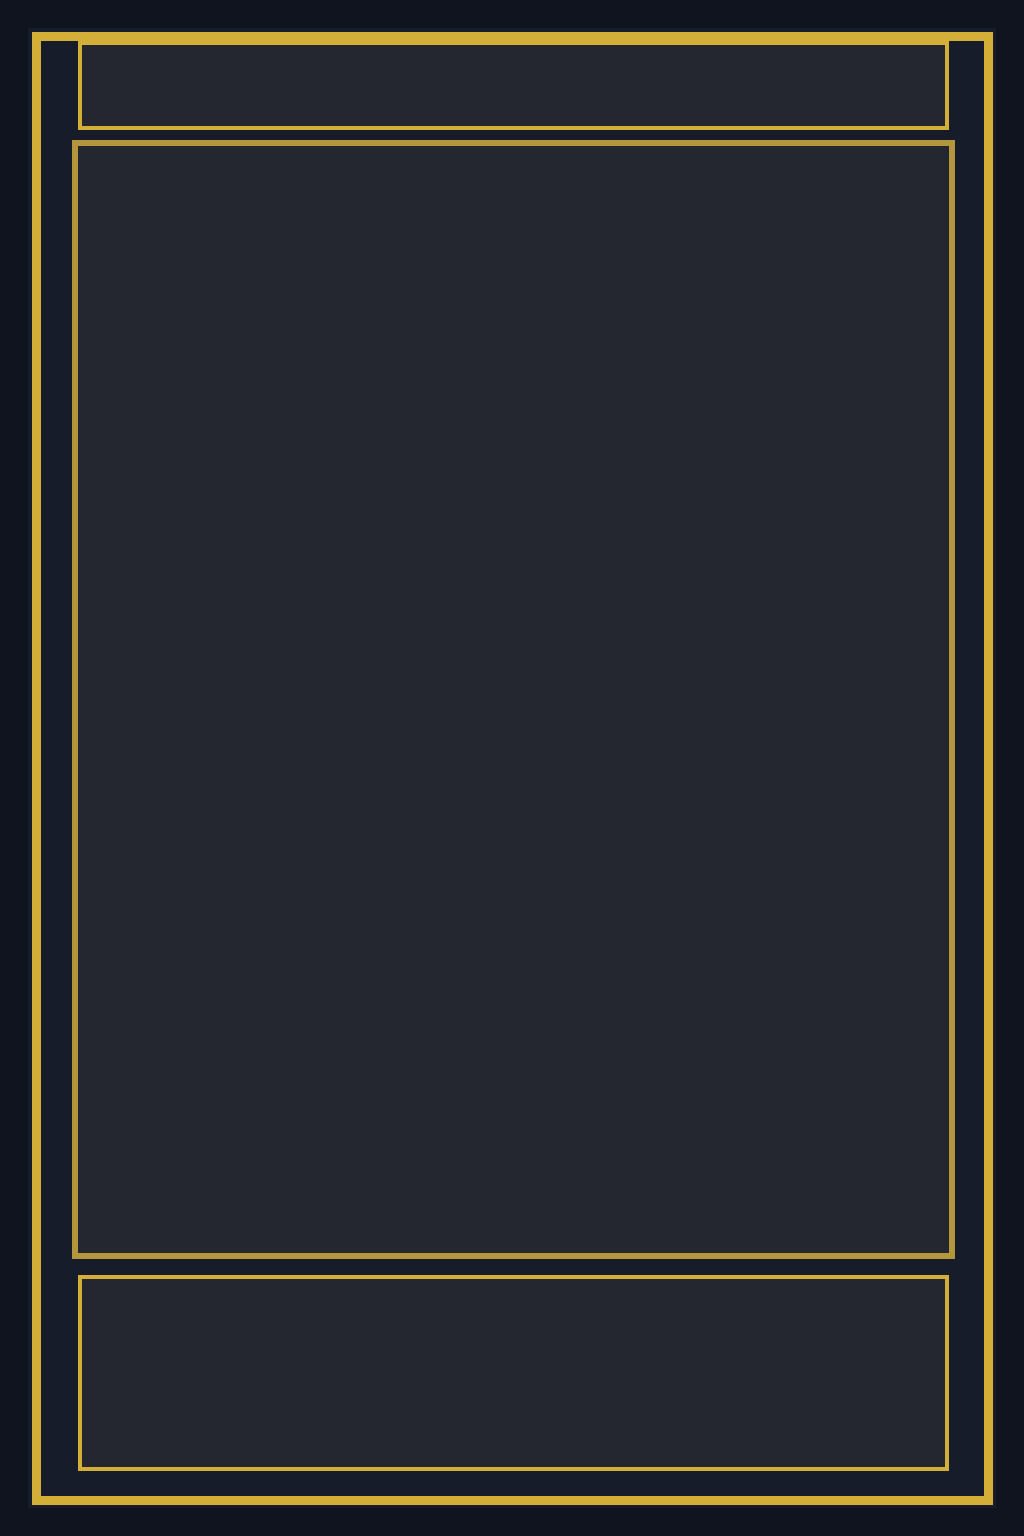
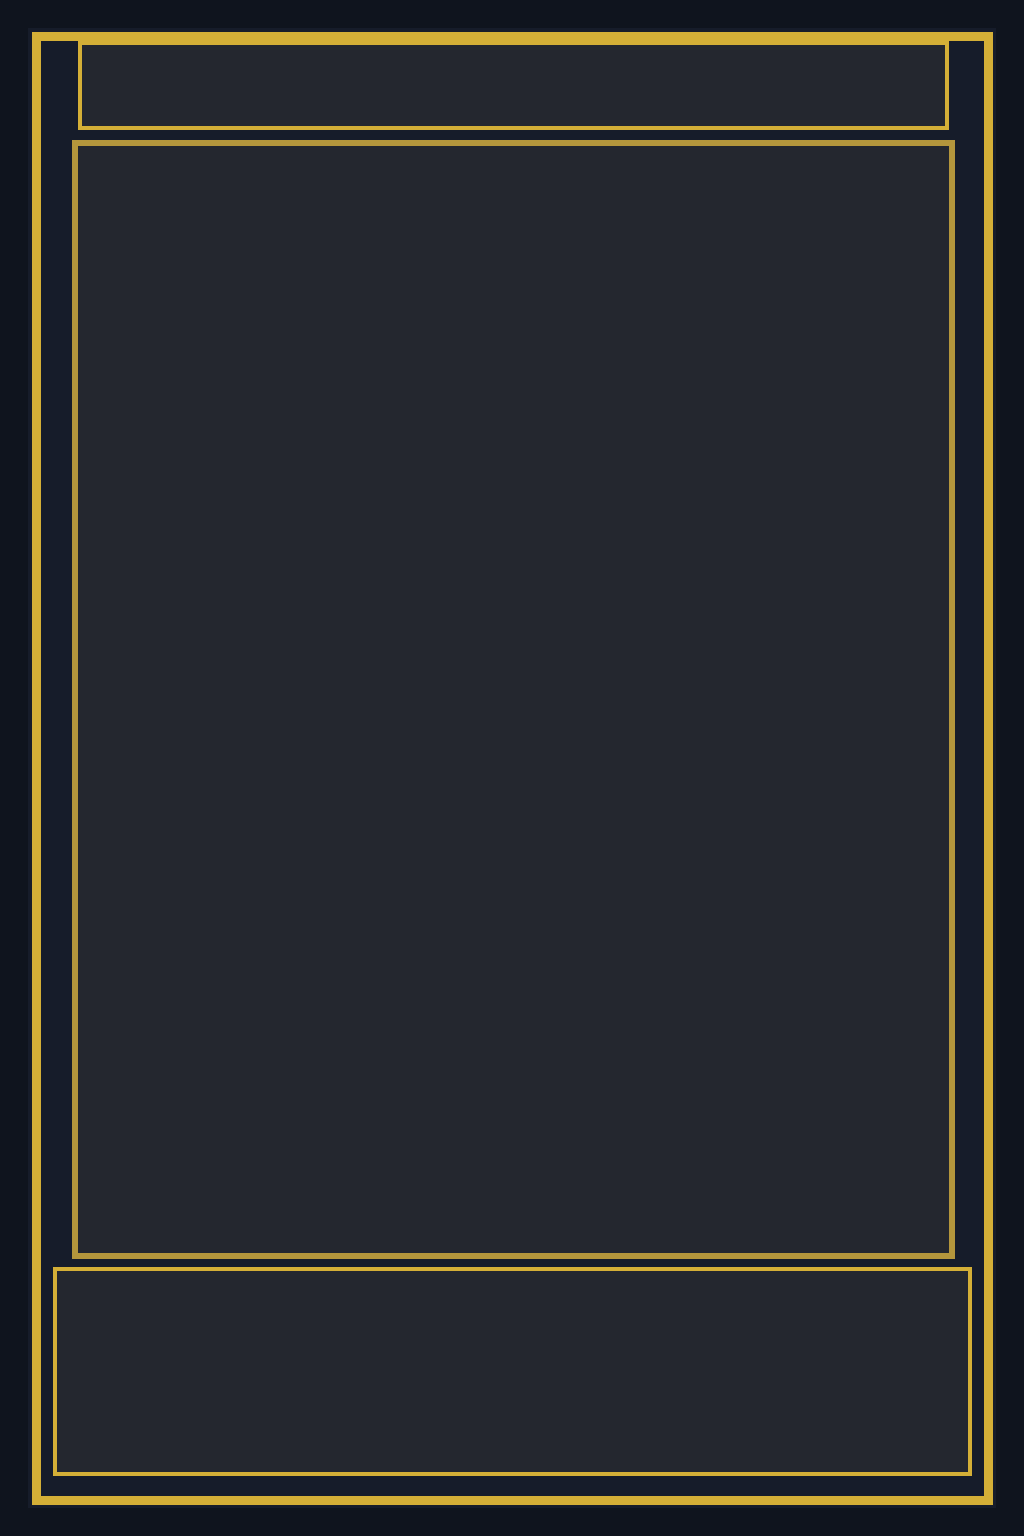
fix: widen effect slot, autofit atkdef, sanitize cached stale stats

Changed region(s): [[0.0312, 0.8125, 0.9688, 0.9688]]

diff --git a/src/components/card/AutoFitText.tsx b/src/components/card/AutoFitText.tsx
@@ -1,12 +1,11 @@
 "use client";
 
-import React, { useEffect, useRef, useState, useLayoutEffect } from "react";
+import React, { useEffect, useRef, useState, useLayoutEffect, useCallback } from "react";
 
 interface AutoFitTextProps {
   text: string;
   minFontSize?: number;
   maxFontSize?: number;
-  step?: number;
   singleLine?: boolean;
   className?: string;
   style?: React.CSSProperties;
@@ -14,9 +13,8 @@ interface AutoFitTextProps {
 
 export const AutoFitText: React.FC<AutoFitTextProps> = ({
   text,
-  minFontSize = 16,
-  maxFontSize = 48,
-  step = 1,
+  minFontSize = 10,
+  maxFontSize = 36,
   singleLine = false,
   className = "",
   style = {},
@@ -25,35 +23,69 @@ export const AutoFitText: React.FC<AutoFitTextProps> = ({
   const textRef = useRef<HTMLDivElement>(null);
   const [fontSize, setFontSize] = useState<number>(maxFontSize);
 
-  // Use layout effect for synchronous calculation before paint
   const useIsomorphicLayoutEffect =
     typeof window !== "undefined" ? useLayoutEffect : useEffect;
 
-  useIsomorphicLayoutEffect(() => {
+  const calculateFit = useCallback(() => {
     const container = containerRef.current;
     const content = textRef.current;
     if (!container || !content) return;
 
-    let currentSize = maxFontSize;
-    content.style.fontSize = `${currentSize}px`;
+    const targetWidth = container.clientWidth;
+    const targetHeight = container.clientHeight;
 
-    const isOverflowing = () => {
+    if (targetWidth <= 0 || targetHeight <= 0) return;
+
+    // Búsqueda binaria para encontrar el tamaño óptimo de fuente
+    let low = minFontSize;
+    let high = maxFontSize;
+    let bestSize = minFontSize;
+
+    // Helper para verificar desbordamiento
+    const overflows = (size: number): boolean => {
+      content.style.fontSize = `${size}px`;
+      content.style.lineHeight = singleLine ? "1.15" : `${Math.max(1.15, 1.25 - (36 - size) * 0.003)}`;
+
       if (singleLine) {
         return (
-          content.scrollWidth > container.clientWidth ||
-          content.scrollHeight > container.clientHeight
+          content.scrollWidth > targetWidth ||
+          content.scrollHeight > targetHeight
         );
       }
-      return content.scrollHeight > container.clientHeight;
+      return (
+        content.scrollHeight > targetHeight ||
+        content.scrollWidth > targetWidth
+      );
     };
 
-    while (isOverflowing() && currentSize > minFontSize) {
-      currentSize -= step;
-      content.style.fontSize = `${currentSize}px`;
+    while (low <= high) {
+      const mid = Math.floor((low + high) / 2);
+      if (overflows(mid)) {
+        high = mid - 1; // Demasiado grande, probamos menor
+      } else {
+        bestSize = mid; // Cabe bien, intentamos un tamaño mayor
+        low = mid + 1;
+      }
     }
 
-    setFontSize(currentSize);
-  }, [text, minFontSize, maxFontSize, step, singleLine]);
+    setFontSize(bestSize);
+    content.style.fontSize = `${bestSize}px`;
+  }, [text, minFontSize, maxFontSize, singleLine]);
+
+  useIsomorphicLayoutEffect(() => {
+    calculateFit();
+  }, [calculateFit]);
+
+  useEffect(() => {
+    const container = containerRef.current;
+    if (!container || typeof ResizeObserver === "undefined") return;
+
+    const ro = new ResizeObserver(() => {
+      calculateFit();
+    });
+    ro.observe(container);
+    return () => ro.disconnect();
+  }, [calculateFit]);
 
   return (
     <div
@@ -63,10 +95,16 @@ export const AutoFitText: React.FC<AutoFitTextProps> = ({
     >
       <div
         ref={textRef}
-        className={singleLine ? "truncate whitespace-nowrap text-center" : "whitespace-pre-wrap break-words"}
+        className={
+          singleLine
+            ? "truncate whitespace-nowrap text-center"
+            : "whitespace-pre-wrap break-words text-left hyphens-auto"
+        }
         style={{
           fontSize: `${fontSize}px`,
-          lineHeight: singleLine ? 1.15 : 1.25,
+          lineHeight: singleLine ? 1.15 : 1.2,
+          wordBreak: "break-word",
+          overflowWrap: "anywhere",
         }}
       >
         {text}

diff --git a/src/components/card/Card.tsx b/src/components/card/Card.tsx
@@ -1,7 +1,6 @@
 "use client";
 
 import React, { forwardRef } from "react";
-import Image from "next/image";
 import { CardData, CardTemplate } from "@/lib/schema";
 import { CARD_TEMPLATES } from "@/lib/templates";
 import { CardSlot } from "./CardSlot";
@@ -106,8 +105,8 @@ export const Card = forwardRef<HTMLDivElement, CardProps>(
           <AutoFitText
             text={card.name || "NOMBRE DE LA CARTA"}
             singleLine
-            minFontSize={20}
-            maxFontSize={50}
+            minFontSize={18}
+            maxFontSize={48}
             className="font-[family-name:var(--font-cinzel)] font-bold tracking-wider text-center drop-shadow-[0_2px_4px_rgba(0,0,0,0.85)] text-[#f0e6cf]"
           />
         </CardSlot>
@@ -126,40 +125,42 @@ export const Card = forwardRef<HTMLDivElement, CardProps>(
           </CardSlot>
         )}
 
-        {/* Effect Slot */}
+        {/* Effect Slot — padding mínimo para aprovechar todo el ancho */}
         <CardSlot
           rect={slots.effect}
           calibration={calibration}
           label="Effect"
-          className="z-30 px-6 py-4 flex flex-col justify-start"
+          className="z-30 px-3 py-2 flex flex-col justify-start"
         >
-          <div className="relative w-full h-full flex flex-col justify-between">
+          <div
+            className={`relative w-full h-full flex flex-col justify-center overflow-hidden ${
+              isMonster ? "pb-10" : "pb-0"
+            }`}
+          >
             <AutoFitText
               text={card.effect || "Efecto o descripción de la carta..."}
-              minFontSize={18}
-              maxFontSize={34}
-              className={`font-[family-name:var(--font-lora)] text-[#f0e6cf] drop-shadow-[0_1px_3px_rgba(0,0,0,0.9)] ${
-                isMonster ? "pb-9" : ""
-              }`}
+              minFontSize={10}
+              maxFontSize={32}
+              className="font-[family-name:var(--font-lora)] text-[#f0e6cf] drop-shadow-[0_1px_3px_rgba(0,0,0,0.9)]"
             />
           </div>
         </CardSlot>
 
-        {/* ATK / DEF Slot (Monster only) */}
+        {/* ATK / DEF — tamaño de fuente que llena exactamente el slot */}
         {showAtkDef && slots.atkdef && (
           <CardSlot
             rect={slots.atkdef}
             calibration={calibration}
             label="ATK / DEF"
-            className="z-40 flex items-center justify-end font-[family-name:var(--font-cinzel)] font-black text-2xl tracking-wider text-[#f5ebd7] drop-shadow-[0_2px_4px_rgba(0,0,0,0.95)] px-3"
+            className="z-40 flex items-center justify-end pr-2 overflow-hidden"
           >
-            <div className="flex items-center space-x-3 bg-black/60 px-3 py-1 rounded border border-amber-500/40">
-              <span className="text-amber-400 text-lg">ATK</span>
-              <span>{card.atk || "0"}</span>
-              <span className="text-zinc-500">/</span>
-              <span className="text-blue-400 text-lg">DEF</span>
-              <span>{card.def || "0"}</span>
-            </div>
+            <AutoFitText
+              text={`ATK ${card.atk || "0"}  /  DEF ${card.def || "0"}`}
+              singleLine
+              minFontSize={16}
+              maxFontSize={48}
+              className="font-[family-name:var(--font-cinzel)] font-black tracking-wider text-right drop-shadow-[0_2px_4px_rgba(0,0,0,0.95)] text-[#f5ebd7]"
+            />
           </CardSlot>
         )}
       </div>

diff --git a/src/components/editor/CardForm.tsx b/src/components/editor/CardForm.tsx
@@ -105,10 +105,10 @@ export const CardForm: React.FC = () => {
               <input
                 id="card-cost"
                 type="text"
-                maxLength={3}
+                maxLength={2}
                 value={card.cost ?? ""}
                 onChange={(e) => updateField("cost", e.target.value)}
-                placeholder="0-99"
+                placeholder="0-9"
                 className="w-full bg-zinc-900/80 border border-zinc-800 rounded-lg px-3 py-2.5 text-sm text-center text-[#f0e6cf] font-[family-name:var(--font-cinzel)] font-black focus:outline-none focus:ring-2 focus:ring-amber-500/50 focus:border-amber-500 transition-all placeholder:font-sans placeholder:text-zinc-600"
               />
             </div>
@@ -119,30 +119,32 @@ export const CardForm: React.FC = () => {
         {showAtkDef && (
           <div className="grid grid-cols-2 gap-3 p-3 rounded-xl border border-zinc-800/80 bg-zinc-900/40 animate-fadeIn">
             <div className="space-y-1.5">
-              <label htmlFor="card-atk" className="text-xs font-medium text-amber-400 flex items-center gap-1.5">
+              <label htmlFor="card-atk" className="text-xs font-medium text-amber-400 flex items-center justify-between">
                 <span>ATK (Ataque)</span>
+                <span className="text-[10px] text-zinc-500 font-normal">1-2 cifras</span>
               </label>
               <input
                 id="card-atk"
                 type="text"
-                maxLength={5}
+                maxLength={3}
                 value={card.atk ?? ""}
                 onChange={(e) => updateField("atk", e.target.value)}
-                placeholder="Ej. 3000 o ?"
+                placeholder="Ej. 8 o ?"
                 className="w-full bg-zinc-950/80 border border-zinc-800 rounded-lg px-3 py-2 text-sm text-[#f0e6cf] font-[family-name:var(--font-cinzel)] font-bold focus:outline-none focus:ring-2 focus:ring-amber-500/50 focus:border-amber-500"
               />
             </div>
             <div className="space-y-1.5">
-              <label htmlFor="card-def" className="text-xs font-medium text-blue-400 flex items-center gap-1.5">
+              <label htmlFor="card-def" className="text-xs font-medium text-blue-400 flex items-center justify-between">
                 <span>DEF (Defensa)</span>
+                <span className="text-[10px] text-zinc-500 font-normal">1-2 cifras</span>
               </label>
               <input
                 id="card-def"
                 type="text"
-                maxLength={5}
+                maxLength={3}
                 value={card.def ?? ""}
                 onChange={(e) => updateField("def", e.target.value)}
-                placeholder="Ej. 2500 o ?"
+                placeholder="Ej. 6 o ?"
                 className="w-full bg-zinc-950/80 border border-zinc-800 rounded-lg px-3 py-2 text-sm text-[#f0e6cf] font-[family-name:var(--font-cinzel)] font-bold focus:outline-none focus:ring-2 focus:ring-blue-500/50 focus:border-blue-500"
               />
             </div>

diff --git a/src/lib/templates.ts b/src/lib/templates.ts
@@ -5,31 +5,32 @@ export const CARD_TEMPLATES: Record<CardType, CardTemplate> = {
     type: "monster",
     frameSrc: "/frames/monster.png",
     slots: {
-      name: { x: 20.0, y: 2.7, w: 75.2, h: 5.7 },
-      cost: { x: 3.8, y: 2.1, w: 12.9, h: 8.6 },
-      art: { x: 7.0, y: 9.1, w: 86.2, h: 72.8 },
-      effect: { x: 7.6, y: 83.0, w: 85.0, h: 12.7 },
-      atkdef: { x: 67.4, y: 92.3, w: 23.4, h: 2.9 },
+      name:   { x: 20.0, y: 2.7,  w: 75.2, h: 5.7  },
+      cost:   { x: 3.8,  y: 2.1,  w: 12.9, h: 8.6  },
+      art:    { x: 7.0,  y: 9.1,  w: 86.2, h: 72.8 },
+      // Recuadro de efectos: máximo ancho útil del interior del marco
+      effect: { x: 3.5,  y: 81.8, w: 93.0, h: 14.5 },
+      // ATK/DEF: esquina inferior derecha, suficiente ancho para 1-2 dígitos + etiquetas
+      atkdef: { x: 56.0, y: 92.0, w: 40.0, h: 3.8  },
     },
   },
   general: {
     type: "general",
     frameSrc: "/frames/general.png",
     slots: {
-      name: { x: 20.0, y: 2.7, w: 75.2, h: 5.7 },
-      cost: { x: 3.8, y: 2.1, w: 12.9, h: 8.6 },
-      art: { x: 7.0, y: 9.1, w: 86.2, h: 72.8 },
-      effect: { x: 7.6, y: 83.0, w: 85.0, h: 12.7 },
+      name:   { x: 20.0, y: 2.7,  w: 75.2, h: 5.7  },
+      cost:   { x: 3.8,  y: 2.1,  w: 12.9, h: 8.6  },
+      art:    { x: 7.0,  y: 9.1,  w: 86.2, h: 72.8 },
+      effect: { x: 3.5,  y: 81.8, w: 93.0, h: 14.5 },
     },
   },
   arcano: {
     type: "arcano",
     frameSrc: "/frames/arcano.png",
     slots: {
-      // En arcano no hay casilla de coste a la izquierda
-      name: { x: 7.6, y: 2.7, w: 85.0, h: 5.7 },
-      art: { x: 7.0, y: 9.1, w: 86.2, h: 72.8 },
-      effect: { x: 7.6, y: 83.0, w: 85.0, h: 12.7 },
+      name:   { x: 7.6,  y: 2.7,  w: 85.0, h: 5.7  },
+      art:    { x: 7.0,  y: 9.1,  w: 86.2, h: 72.8 },
+      effect: { x: 3.5,  y: 81.8, w: 93.0, h: 14.5 },
     },
   },
 };

diff --git a/src/store/useCardStore.ts b/src/store/useCardStore.ts
@@ -14,9 +14,9 @@ const DEFAULT_CARD: CardData = {
   id: "card-default",
   type: "monster",
   name: "DRAGÓN DEL ABISMO",
-  cost: "7",
-  atk: "3200",
-  def: "2800",
+  cost: "5",
+  atk: "8",
+  def: "6",
   effect:
     "Cuando esta criatura entra en juego, destruye todas las cartas en juego con un coste de 3 o menor.\n\nUna vez por turno, puedes descartar 1 carta para anular un efecto enemigo.",
   art: {
@@ -75,8 +75,8 @@ export const useCardStore = create<CardStoreState>((set, get) => ({
         type,
         // Limpiamos o inicializamos campos según el tipo
         cost: type === "arcano" ? undefined : (state.card.cost ?? "1"),
-        atk: type === "monster" ? (state.card.atk ?? "1000") : undefined,
-        def: type === "monster" ? (state.card.def ?? "1000") : undefined,
+        atk: type === "monster" ? (state.card.atk ?? "5") : undefined,
+        def: type === "monster" ? (state.card.def ?? "5") : undefined,
         updatedAt: Date.now(),
       };
       debouncedSaveCurrent(nextCard);
@@ -180,8 +180,8 @@ export const useCardStore = create<CardStoreState>((set, get) => ({
       type,
       name: "NUEVA CARTA",
       cost: type !== "arcano" ? "1" : undefined,
-      atk: type === "monster" ? "1000" : undefined,
-      def: type === "monster" ? "1000" : undefined,
+      atk: type === "monster" ? "5" : undefined,
+      def: type === "monster" ? "5" : undefined,
       effect: "Descripción del efecto...",
       art: {
         zoom: 1,

diff --git a/src/lib/storage.ts b/src/lib/storage.ts
@@ -57,6 +57,18 @@ export async function loadCurrentCard(): Promise<CardData | null> {
     }
 
     const card = parsed.data;
+
+    // Sanitizar stats heredados con más de 2 cifras (datos cacheados de versión anterior)
+    const sanitizeStat = (val: string | undefined): string | undefined => {
+      if (!val) return val;
+      // Permitir "?" u otros strings cortos. Solo truncar si son números de > 2 dígitos
+      const trimmed = val.trim();
+      if (/^\d{3,}$/.test(trimmed)) return trimmed.slice(0, 2);
+      return trimmed;
+    };
+    card.atk = sanitizeStat(card.atk);
+    card.def = sanitizeStat(card.def);
+
     if (card.art.imageId) {
       const blob = await getImageBlob(card.art.imageId);
       if (blob) {

diff --git a/scripts/create_placeholder_frames.js b/scripts/create_placeholder_frames.js
@@ -121,12 +121,12 @@ function drawFrame(type) {
       drawRect(3.8, 2.1, 12.9, 8.6, 240, 195, 60, 255, 5);
     }
 
-    // Effect slot
-    drawRect(7.6, 83.0, 85.0, 12.7, 212, 175, 55, 255, 4);
+    // Effect slot (wider)
+    drawRect(5.2, 82.5, 89.6, 13.5, 212, 175, 55, 255, 4);
 
-    // ATK / DEF badge for monster
+    // ATK / DEF badge for monster (compact for 1-2 digit stats)
     if (type === 'monster') {
-      drawRect(67.4, 92.3, 23.4, 2.9, 255, 215, 0, 255, 3);
+      drawRect(75.5, 91.8, 18.5, 3.6, 255, 215, 0, 255, 3);
     }
   });
 }
